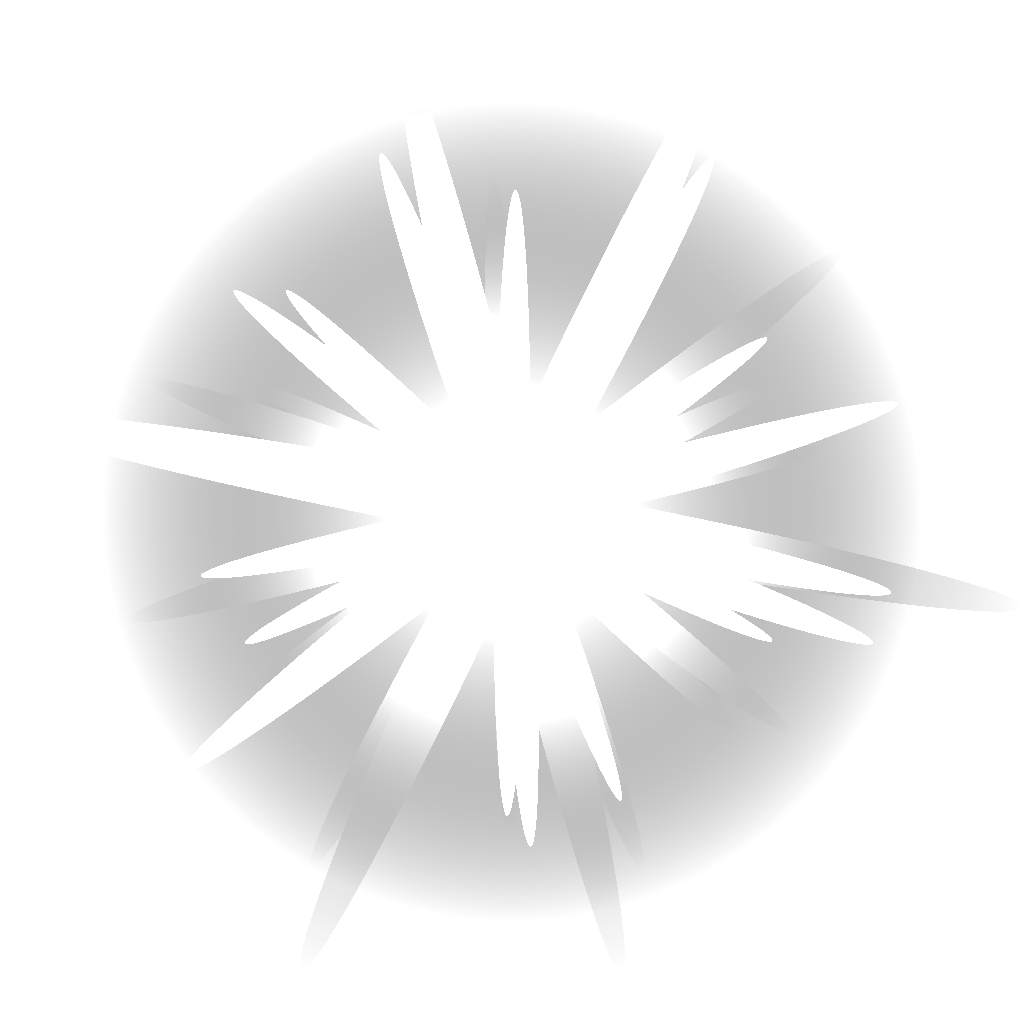
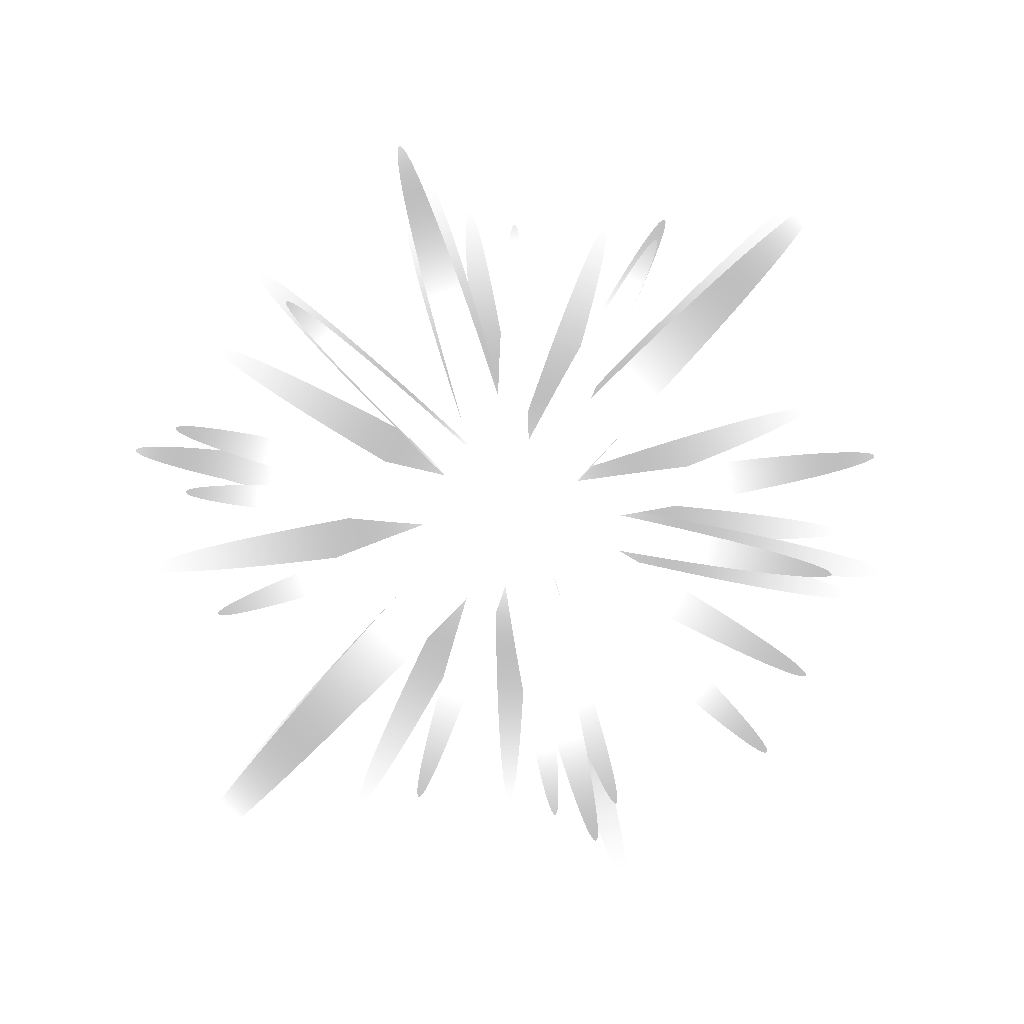
优化爆炸效果

Changed region(s): [[0.125, 0.125, 0.9375, 0.9062]]

diff --git a/VFX/Aoe01.cs b/VFX/Aoe01.cs
@@ -1,0 +1,167 @@
+using Godot;
+using System.Collections.Generic;
+using System.Linq;
+
+// [Tool] 让脚本在编辑器里也能运行，配合下面的按钮即可在编辑器视口中预览
+[Tool]
+public partial class Aoe01 : Node3D {
+    [Export] public bool PlayOnReady { get; set; } = true;
+
+    [Export] public bool Loop { get; set; } = false;
+
+    [Export] public float LoopInterval { get; set; } = 0.2f;
+
+    // 粒子容器：留空则从自身开始找
+    [Export] public Node ParticlesRoot { get; set; }
+
+    private readonly List<Item> _items = new();
+    private int _index;
+    private float _time;
+    private bool _playing;
+    private int _playId;
+
+    // 编辑器里不会自动打开 _Process，必须手动打开
+    public override void _EnterTree() {
+        SetProcess(true);
+    }
+
+    public override void _Ready() {
+        SetProcess(true);
+        Stop();
+        if (PlayOnReady) {
+            Play();
+        }
+    }
+
+    public override void _Process(double delta) {
+        if (!_playing) {
+            return;
+        }
+
+        _time += (float)delta;
+
+        while (_index < _items.Count && _items[_index].Delay <= _time) {
+            StartItem(_items[_index]);
+            _index++;
+        }
+
+        if (_index >= _items.Count) {
+            _playing = false;
+        }
+    }
+
+    [ExportToolButton("预览播放")]
+    public Callable PreviewPlayButton => Callable.From(Play);
+
+    [ExportToolButton("停止")]
+    public Callable PreviewStopButton => Callable.From(Stop);
+
+    /// <summary>按各自延时依次播放粒子，可重复调用，新的播放会打断旧的。</summary>
+    public void Play() {
+        int id = ++_playId;
+
+        BuildQueue();
+
+        _index = 0;
+        _time = 0.0f;
+        _playing = true;
+
+        // 延时为 0 的立即开始
+        while (_index < _items.Count && _items[_index].Delay <= 0.0f) {
+            StartItem(_items[_index]);
+            _index++;
+        }
+
+        // 定时器兜底：即使 _Process 没跑（例如编辑器里）也能按延时播放并循环
+        PlayByTimer(id);
+    }
+
+    /// <summary>停止并重置所有粒子。</summary>
+    public void Stop() {
+        _playId++;
+
+        BuildQueue();
+
+        _playing = false;
+
+        foreach (Item item in _items) {
+            item.Started = false;
+
+            if (!IsInstanceValid(item.Particle)) {
+                continue;
+            }
+
+            item.Particle.Emitting = false;
+            item.Particle.Restart();
+        }
+    }
+
+    private async void PlayByTimer(int id) {
+        Item[] items = _items.ToArray();
+
+        foreach (Item item in items) {
+            if (item.Delay <= 0.0f) {
+                continue;
+            }
+
+            await ToSignal(GetTree().CreateTimer(item.Delay), SceneTreeTimer.SignalName.Timeout);
+
+            if (id != _playId || !IsInstanceValid(this)) {
+                return;
+            }
+
+            StartItem(item);
+        }
+
+        if (Loop) {
+            await ToSignal(GetTree().CreateTimer(Mathf.Max(LoopInterval, 0.0f)), SceneTreeTimer.SignalName.Timeout);
+
+            if (id != _playId || !IsInstanceValid(this)) {
+                return;
+            }
+
+            Play();
+        }
+    }
+
+    private void StartItem(Item item) {
+        if (item.Started || !IsInstanceValid(item.Particle)) {
+            return;
+        }
+
+        item.Started = true;
+        item.Particle.Restart();
+        item.Particle.Emitting = true;
+    }
+
+    // 从 ParticlesRoot（或自身）收集子节点上的（粒子, 延时）并按延时升序排序
+    private void BuildQueue() {
+        _items.Clear();
+
+        Node root = (ParticlesRoot != null && IsInstanceValid(ParticlesRoot)) ? ParticlesRoot : this;
+        CollectChildren(root);
+
+        if (_items.Count > 1) {
+            _items.Sort((a, b) => a.Delay.CompareTo(b.Delay));
+        }
+    }
+
+    private void CollectChildren(Node parent) {
+        foreach (Node child in parent.GetChildren()) {
+            if (child is AoeParticle ap) {
+                _items.Add(new Item { Particle = ap, Delay = Mathf.Max(ap.Delay, 0.0f) });
+            }
+            else if (child is GpuParticles3D p) {
+                _items.Add(new Item { Particle = p, Delay = 0.0f });
+            }
+
+            CollectChildren(child);
+        }
+    }
+
+    private class Item {
+        public GpuParticles3D Particle;
+        public float Delay;
+        public bool Started;
+    }
+}

diff --git a/VFX/AoeParticle.cs b/VFX/AoeParticle.cs
@@ -1,0 +1,9 @@
+using Godot;
+
+/// <summary>带延时的粒子：延时直接配在这个粒子节点上。</summary>
+[GlobalClass]
+[Tool]
+public partial class AoeParticle : GpuParticles3D
+{
+    [Export] public float Delay { get; set; }
+}
